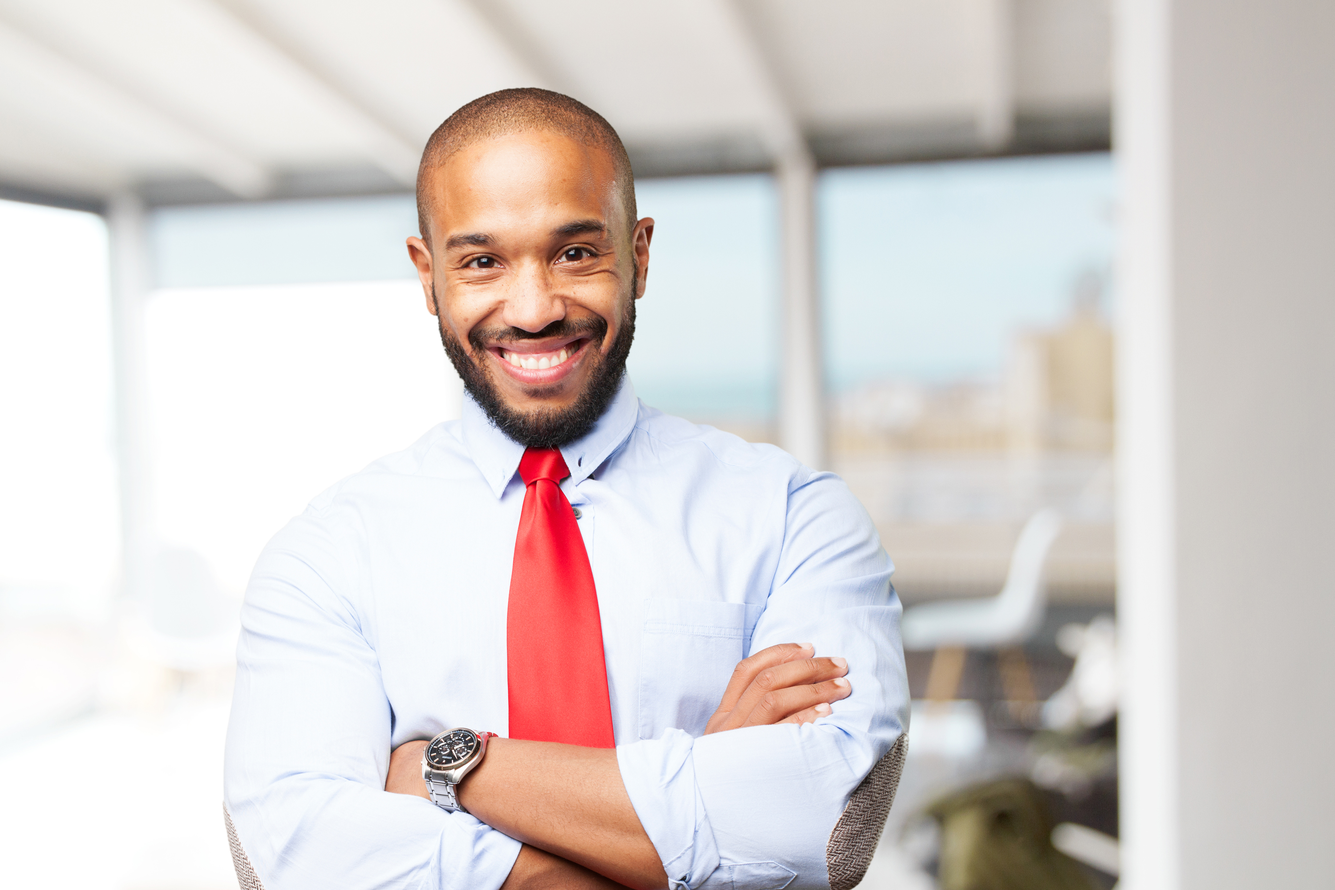
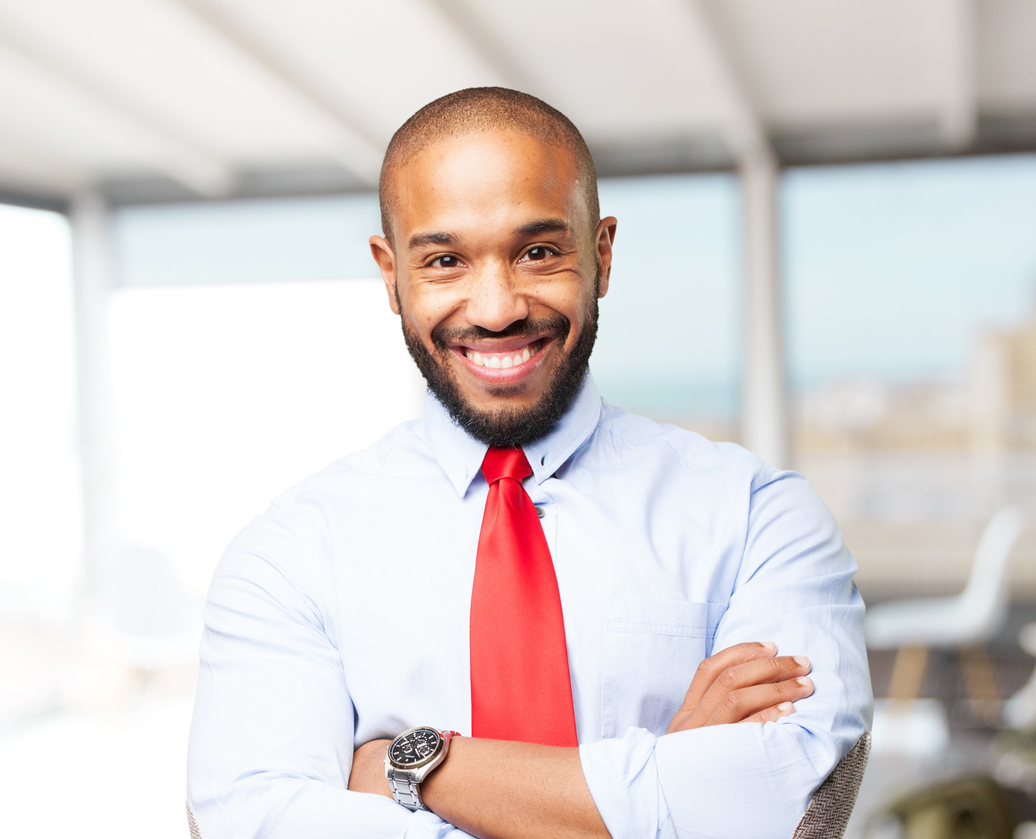
updates

diff --git a/src/components/layout/NavBar.tsx b/src/components/layout/NavBar.tsx
@@ -5,7 +5,6 @@ import Image from "next/image";
 import Link from "next/link";
 import { AnimatePresence, motion } from "framer-motion";
 import { Menu, X } from "lucide-react";
-import ThemeToggle from "../ui/ThemeToggle";
 
 const navLinks = [
   { name: "Home", href: "#" },
@@ -126,7 +125,7 @@ export default function Navbar() {
                 href={link.href}
                 className={`
                 relative
-                text-sm
+                text-xs
                 font-semibold
                 transition-colors
                 duration-300
@@ -150,12 +149,15 @@ export default function Navbar() {
           {/* CTA */}
 
           <div className="hidden items-center gap-4 lg:flex">
-            <ThemeToggle />
-            <button
-              className="
+            <Link
+                href="#contact"
+                className="
+                inline-flex
+                items-center
+                justify-center
                 rounded-full
                 bg-primary
-                px-6
+                px-4
                 py-3
                 text-sm
                 font-semibold
@@ -169,7 +171,7 @@ export default function Navbar() {
               "
             >
               Get Free Quote
-            </button>
+            </Link>
           </div>
 
           {/* Mobile Menu Button */}
@@ -290,22 +292,31 @@ export default function Navbar() {
                     </motion.a>
                 ))}
 
-                <div className="flex justify-center py-2">
-                    <ThemeToggle />
-                </div>
-
-                <button
+                <Link
+                    href="#contact"
                   className="
-                    mt-2
+                    group
+                    inline-flex
+                    items-center
+                    justify-center
+                    mt-0
                     rounded-full
                     bg-primary
                     py-4
                     font-semibold
                     text-white
+                    transition-all
+                    duration-300
+                    hover:-translate-y-1
+                    hover:bg-secondary
+                    hover:text-[#07092E]
+                    active:scale-95
+                    active:bg-primary
+                    active:text-white
                   "
                 >
                   Get Free Quote
-                </button>
+                </Link>
 
               </div>
             </motion.div>

diff --git a/src/components/ui/ThemeToggle.tsx b/src/components/ui/ThemeToggle.tsx
@@ -16,21 +16,49 @@ export default function ThemeToggle() {
   const isDark = resolvedTheme === "dark";
 
   return (
-        <div
+        <motion.div
+            whileHover={{
+                scale: 1.08,
+                rotate: 8,
+            }}
+            whileTap={{
+                scale: 0.95,
+            }}
+            initial={{
+                opacity: 0,
+                scale: 0.9,
+            }}
+            animate={{
+                opacity: 1,
+                scale: 1,
+                y: [0, -6, 0],
+                boxShadow: [
+                "0 10px 20px rgba(0,0,0,.10)",
+                "0 18px 35px rgba(0,0,0,.18)",
+                "0 10px 20px rgba(0,0,0,.10)",
+                ],
+            }}
+            transition={{
+                opacity: {
+                duration: 0.4,
+                },
+                scale: {
+                duration: 0.4,
+                },
+                y: {
+                duration: 3,
+                repeat: Infinity,
+                repeatType: "mirror",
+                ease: "easeInOut",
+                },
+            }}
             className="
-            fixed
-            right-6
-            top-1/2
-            -translate-y-1/2
-            z-40
-            pointer-events-none
-
-            max-lg:right-4
-            max-lg:bottom-4
-            max-lg:top-auto
-            max-lg:translate-y-0
+                fixed
+                bottom-16
+                right-6
+                z-[100]
             "
-        >
+            >
             <motion.button
             initial={{ opacity: 0, scale: 0.8 }}
             animate={{ opacity: 1, scale: 1 }}
@@ -84,6 +112,6 @@ export default function ThemeToggle() {
                 )}
             </motion.div>
             </motion.button>
-        </div>
+        </motion.div>
     );
 }

diff --git a/src/app/layout.tsx b/src/app/layout.tsx
@@ -2,6 +2,7 @@ import type { Metadata } from "next";
 import { Inter, Poppins, Manrope } from "next/font/google";
 import "./globals.css";
 import ThemeProvider from "../components/providers/ThemeProvider";
+import ThemeToggle from "@/components/ui/ThemeToggle";
 
 const inter = Inter({
   subsets: ["latin"],
@@ -57,6 +58,7 @@ export default function RootLayout({
         >
             <ThemeProvider>
                 {children}
+                <ThemeToggle />
             </ThemeProvider>
         </body>
     </html>
